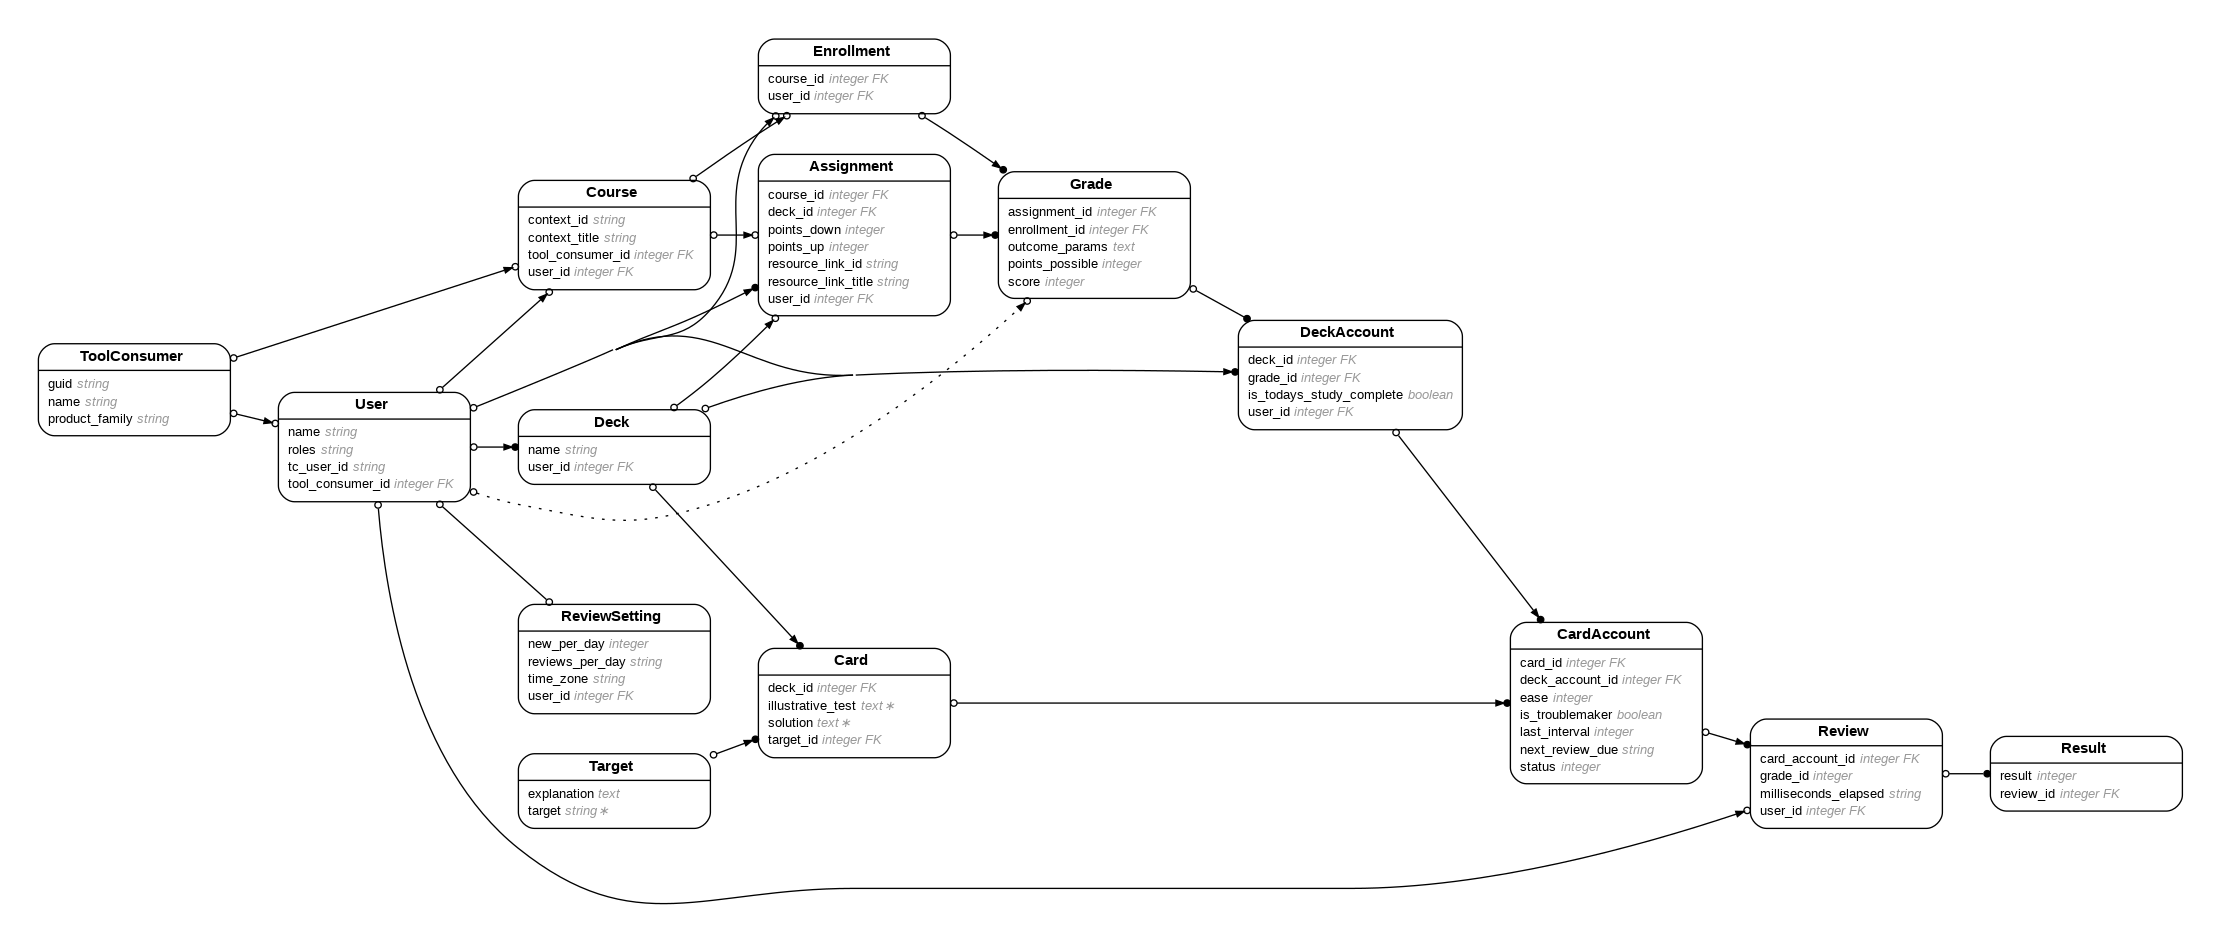
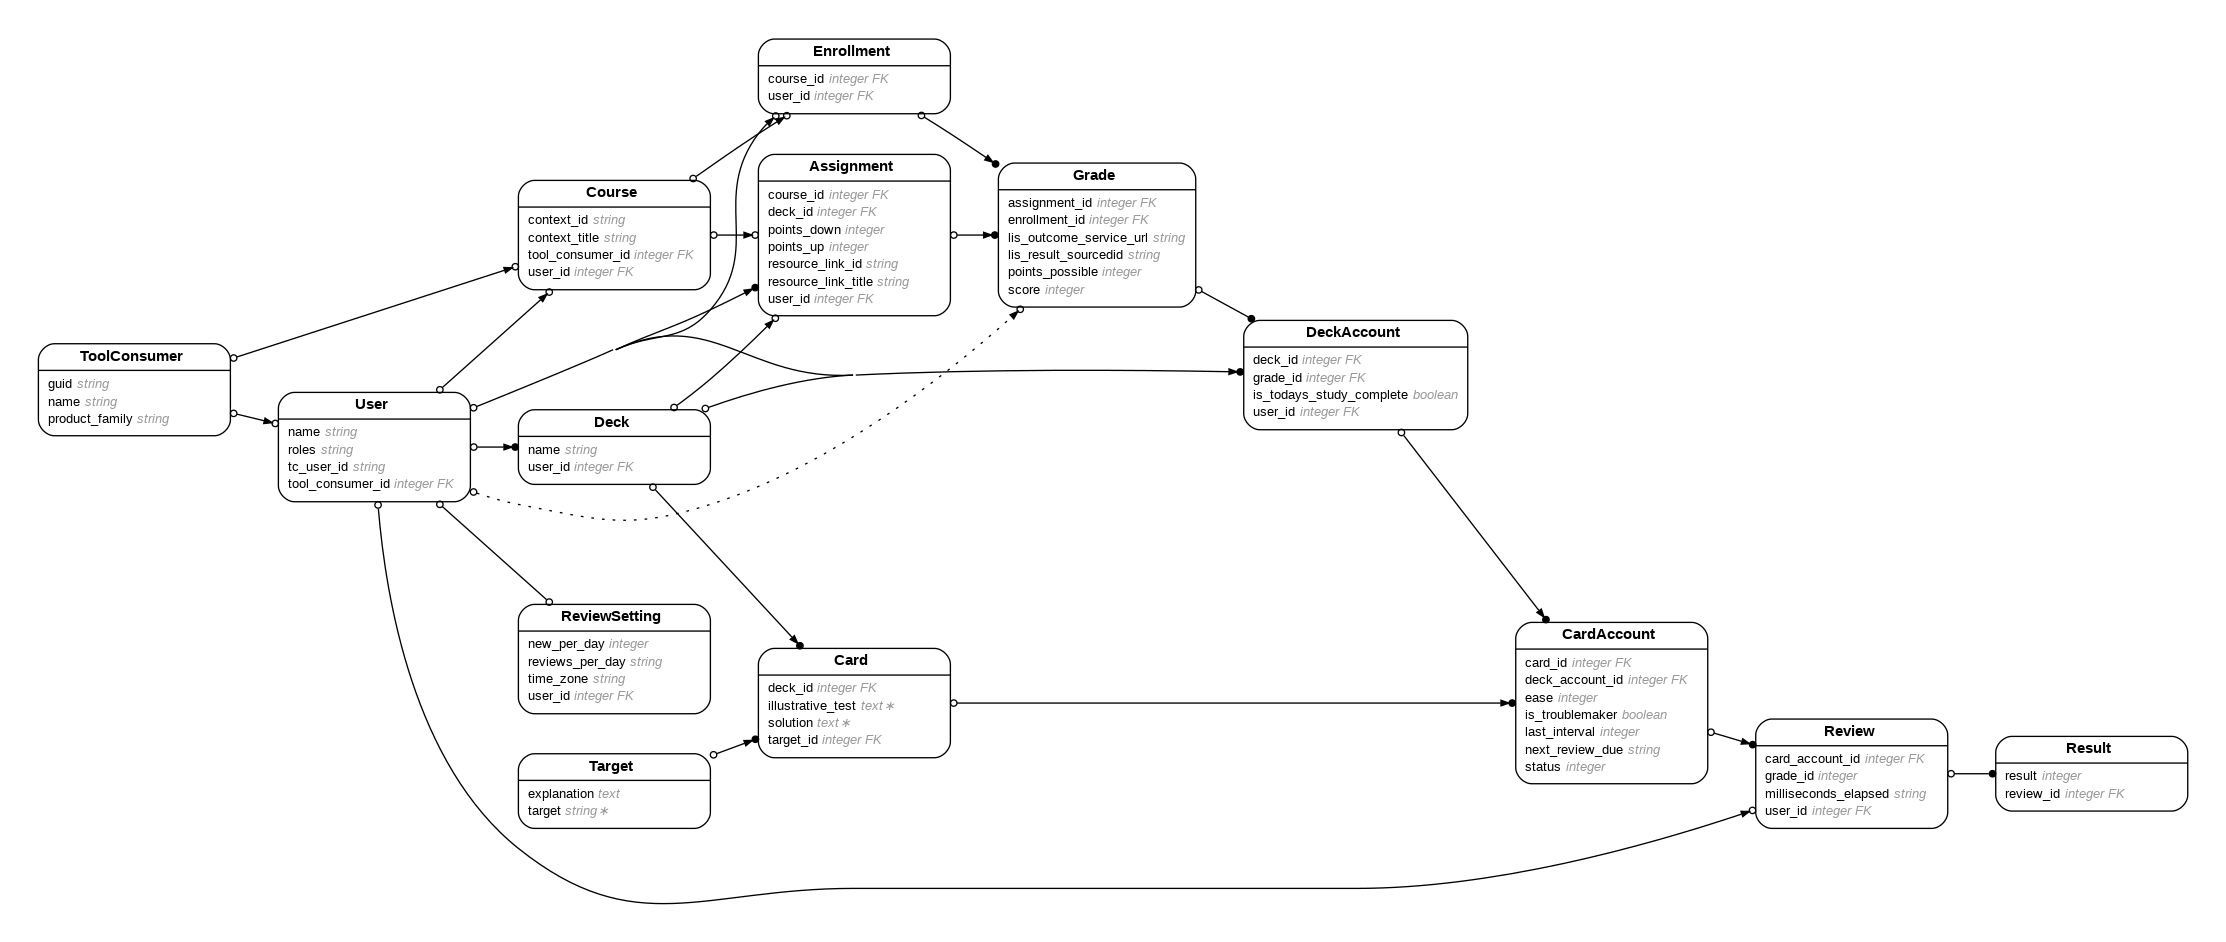
updated grade model again

diff --git a/app/controllers/lti_controller.rb b/app/controllers/lti_controller.rb
@@ -69,11 +69,11 @@ class LtiController < ApplicationController
       # create grade for the assignment if first time accessing assignment in the course as a learner. 
       # Save point scale, and assign student the deck and max score to begin.
       if @user.grades.where(enrollment_id: @enrollment.id, assignment_id: @assignment.id).blank?
-        @grade = Grade.create(enrollment_id: @enrollment.id, assignment_id: @assignment.id, score: params[:custom_canvas_assignment_points_possible], points_possible: params[:custom_canvas_assignment_points_possible], outcome_params: {"lis_outcome_service_url"=>params[:lis_outcome_service_url],"lis_result_sourcedid"=>params[:lis_result_sourcedid]})
+        @grade = Grade.create(enrollment_id: @enrollment.id, assignment_id: @assignment.id, score: params[:custom_canvas_assignment_points_possible], points_possible: params[:custom_canvas_assignment_points_possible], lis_outcome_service_url: params[:lis_outcome_service_url], lis_result_sourcedid: params[:lis_result_sourcedid])
       #NOTE: no handling right now if the points possible in the assignment are updated by instructor later
       else
         @grade = @user.grades.find_by(assignment_id: @assignment.id)
-        @grade.update(outcome_params: {"lis_outcome_service_url"=>params[:lis_outcome_service_url],"lis_result_sourcedid"=>params[:lis_result_sourcedid]})
+        @grade.update(lis_outcome_service_url: params[:lis_outcome_service_url], lis_result_sourcedid: params[:lis_result_sourcedid])
       end
 
       # if learner does not have a deck account for this assigned deck, then create deck_account

diff --git a/db/schema.rb b/db/schema.rb
@@ -85,7 +85,8 @@ ActiveRecord::Schema.define(version: 2021_08_24_172532) do
     t.integer "points_possible"
     t.integer "enrollment_id"
     t.integer "assignment_id"
-    t.text "outcome_params"
+    t.string "lis_outcome_service_url"
+    t.string "lis_result_sourcedid"
     t.datetime "created_at", precision: 6, null: false
     t.datetime "updated_at", precision: 6, null: false
   end

diff --git a/db/migrate/20210521011653_create_grades.rb b/db/migrate/20210521011653_create_grades.rb
@@ -5,7 +5,8 @@ class CreateGrades < ActiveRecord::Migration[6.1]
       t.integer :points_possible
       t.integer :enrollment_id
       t.integer :assignment_id
-      t.text    :outcome_params
+      t.string  :lis_outcome_service_url
+      t.string  :lis_result_sourcedid
 
       t.timestamps
     end
